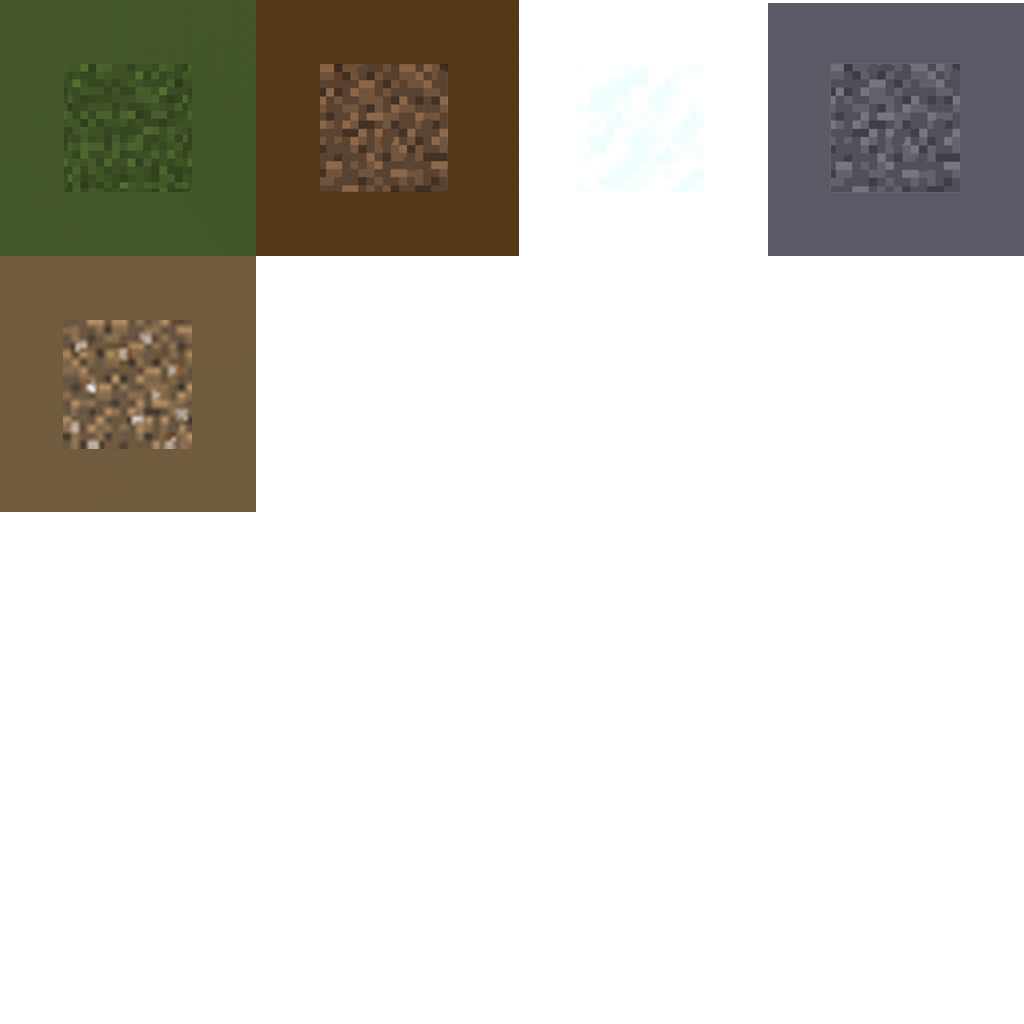
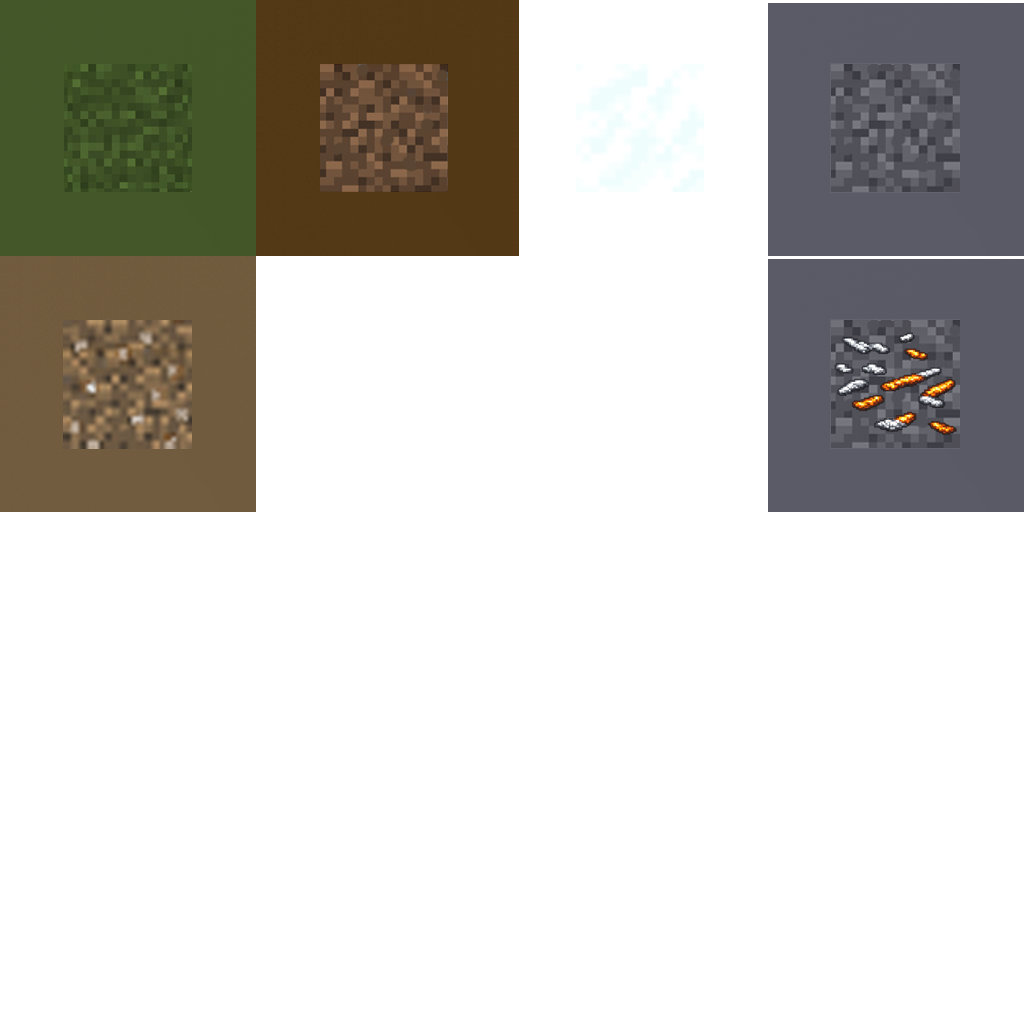
dev

Changed region(s): [[0.75, 0.25, 1.0, 0.5]]

diff --git a/src/data/worldDataManager.ts b/src/data/worldDataManager.ts
@@ -48,6 +48,7 @@ export const WorldDataManager = {
     },
 
     consumeMapChunk(mapChunk) {
+        console.log(mapChunk)
         if (!this.worldDataMap.has(MyPlayer.worldId)) {
             this.worldDataMap.set(MyPlayer.worldId, new WorldData(1024))
         }
@@ -74,6 +75,34 @@ export const WorldDataManager = {
     getBlockOnPosition(pos: Vector3): MapBlock | null {
         const map = WorldDataManager.getBlockMap()
         return map[Math.floor(pos.x)][Math.floor(pos.z)]
+    },
+
+    getCoveredBlocks(pos: Vector3, boxSize: number, blockSize = 1): MapBlock[] {
+        const worldData = this.worldDataMap.get(MyPlayer.worldId)
+        if (!worldData) {
+            return []
+        }
+
+        const threshold = blockSize - (boxSize / 2)
+        const coveredBlocks: MapBlock[] = []
+
+        for (let x = Math.floor(pos.x) - 2; x <= Math.ceil(pos.x) + 2; x++) {
+            if (x < 0 || x >= worldData.worldSize) {
+                continue
+            }
+
+            for (let z = Math.floor(pos.z) - 2; z <= Math.ceil(pos.z) + 2; z++) {
+                if (z < 0 || z >= worldData.worldSize) {
+                    continue
+                }
+
+                if (Math.abs(x - pos.x) < threshold && Math.abs(z - pos.z) < threshold) {
+                    coveredBlocks.push(worldData.blockMap[x][z])
+                }
+            }
+        }
+
+        return coveredBlocks
     }
 }
 
@@ -106,8 +135,8 @@ export class WorldData {
                 if (data[3] === "S") {
                     mapBlock.snowed = true
                 }
-
                 mapBlock.presetHeightOffset()
+                mapBlock.setMinable(data[4])
             }
         }
         this.loadedChunkCoords.push(new Vector3(mapChunk.x, 0, mapChunk.z))
@@ -134,6 +163,7 @@ export class WorldData {
                 block.snowed = false
             }
             block.presetHeightOffset()
+            block.setMinable(data[4])
         }
 
         TerrainManager.renderTerrain()
@@ -150,6 +180,8 @@ export class MapBlock {
     heightOffset: number
     totalHeight: number
     snowed: boolean = false
+    minableCoal: boolean
+    minableOre: number | null
 
     constructor(height: number, type: number) {
         this.height = height
@@ -167,6 +199,17 @@ export class MapBlock {
             return  0.1
         }
         return 0
+    }
+
+    setMinable(minable: undefined | string | null) {
+        if (minable) {
+            console.log("Minable block with data: " + minable)
+            this.minableCoal = minable === 'C'
+            this.minableOre = minable.startsWith('M') ? parseInt(minable.substring(1)) : null
+        } else {
+            this.minableCoal = false
+            this.minableOre = null
+        }
     }
 
     equals(other: MapBlock) {

diff --git a/src/gui/guiButtonsManager.ts b/src/gui/guiButtonsManager.ts
@@ -109,12 +109,13 @@ export const GuiButtonsManager = {
         // Show pickup button if there's an item nearby
         this.opportunityButtons.get(GuiOpportunityActions.PICKUP_ITEM.name)!.setVisible(GroundItemsManager.nearbyItem !== null)
 
-        // Show mining button if there's a mineable block on the player's position and the player has a pickaxe available
-        const blockOnPosition = MyPlayer.myChar
-            ? WorldDataManager.getBlockOnPosition(MyPlayer.myChar.pos)
-            : null
+        // Show mining button if any covered block is mineable and the player has a pickaxe available
+        const coveredBlocks = MyPlayer.myChar
+            ? WorldDataManager.getCoveredBlocks(MyPlayer.myChar.pos, MyPlayer.myChar.getBoxSize())
+            : []
+        const hasMineableCoveredBlock = coveredBlocks.some(block => block.minableCoal || block.minableOre)
         this.opportunityButtons.get(GuiOpportunityActions.MINING.name)!.setVisible(
-            blockOnPosition?.type === 3 && MyPlayer.hasWaponTypeInHandOrInventory(WeaponTypes.PICKAXE)
+            hasMineableCoveredBlock && MyPlayer.hasWaponTypeInHandOrInventory(WeaponTypes.PICKAXE)
         )
     },
 
@@ -183,4 +184,3 @@ export const GuiButtonsManager = {
         this.opportunityButtons.forEach((button) => button.setSize(size))
     }
 }
-

diff --git a/src/babylon/materials.ts b/src/babylon/materials.ts
@@ -251,8 +251,13 @@ export const TerrainEnum1 = {
     TERRAIN_SNOW_ROCK: new MaterialEnum(103, new Vector2(6.5, 4.5)),
     TERRAIN_SNOW_MUDDY_DIRT: new MaterialEnum(104, new Vector2(4.5, 6.5)),
 
+    TERRAIN_ORE_ROCK: new MaterialEnum(1003, new Vector2(6.5, 2.5)),
+
     getTerrainForBlock(block: MapBlock, ignoreSnow: boolean = false): Vector2 {
         let type = block.type;
+        if (block.minableOre) {
+            type += 1000;
+        }
         if (block.snowed && !ignoreSnow) {
             type += 100;
         }
@@ -271,8 +276,13 @@ export const PlaneEnum1 = {
     PLANE_SNOW_ROCK: new MaterialEnum(103, new Vector2(4.5, 6.5)),
     PLANE_SNOW_MUDDY_DIRT: new MaterialEnum(104, new Vector2(4.5, 6.5)),
 
+    PLANE_ORE_ROCK: new MaterialEnum(1003, new Vector2(6.5, 4.5)),
+
     getPlaneForBlock(block: MapBlock): Vector2 {
         let type = block.type;
+        if (block.minableOre) {
+            type += 1000;
+        }
         if (block.snowed) {
             type += 100;
         }
